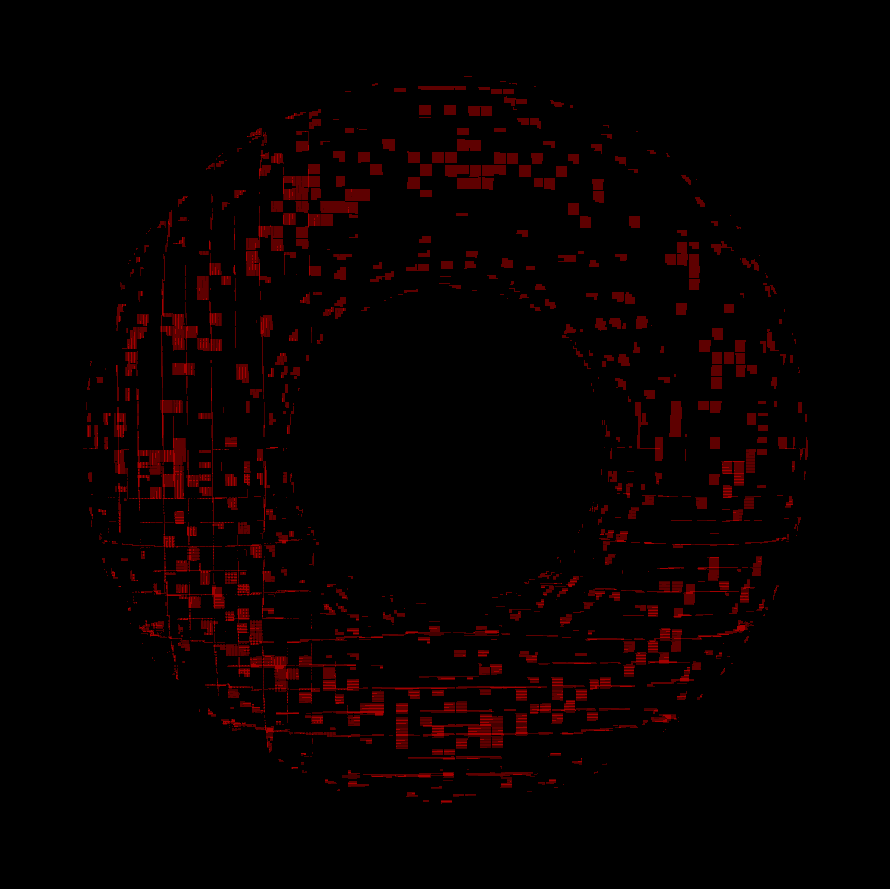
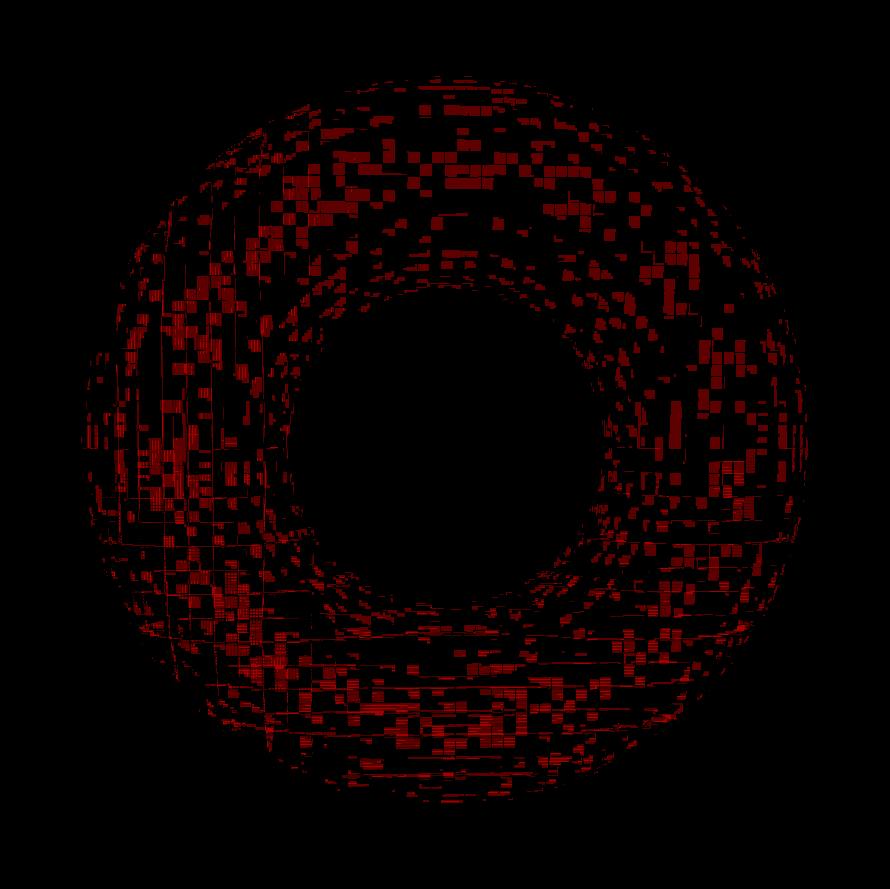
Added and updated overdraw viz

diff --git a/Thesis/chapters/06_Experiment.tex b/Thesis/chapters/06_Experiment.tex
@@ -518,7 +518,7 @@ copying the depth buffer and computing the mip maps.
 
 \subsubsection*{Overdraw}
 
-\begin{figure}[h]
+\begin{figure}[!htb]
   \centering
   \includegraphics[height=125px]{images/graphics/overdraw-lucy1-pooc.png}
   \includegraphics[height=125px]{images/graphics/overdraw-lucy1-pmoc.png}
@@ -734,7 +734,7 @@ best occluders was 5.1 times as high as the amount of best occluders in the \emp
 
 \subsubsection*{Overdraw} \label{subsubsec-overdraw-bunny}
 
-\begin{figure}[h]
+\begin{figure}[!htb]
   \centering
   \includegraphics[width=125px]{images/graphics/overdraw-bunny1-pooc.png}
   \includegraphics[width=125px]{images/graphics/overdraw-bunny1-pmoc.png}
@@ -742,6 +742,8 @@ best occluders was 5.1 times as high as the amount of best occluders in the \emp
   \caption{}
   \label{fig:bunny-overdraw}
 \end{figure}
+
+
 
 
 \subsection*{Torus}
@@ -928,6 +930,19 @@ using the per-meshlet occlusion culling configuration as shown in figure \ref{fi
   \label{fig:torus-gpu-results}
 \end{figure}
 
+\subsubsection*{Overdraw}
+
+\begin{figure}[!htb]
+  \centering
+  \includegraphics[height=125px]{images/graphics/overdraw-torus1-pooc.png}
+  \includegraphics[height=125px]{images/graphics/overdraw-torus1-pmoc.png}
+  \includegraphics[height=125px]{images/graphics/overdraw-torus1-diff.png}
+  \includegraphics[height=125px]{images/graphics/overdraw-torus2-pooc.png}
+  \includegraphics[height=125px]{images/graphics/overdraw-torus2-pmoc.png}
+  \includegraphics[height=125px]{images/graphics/overdraw-torus2-diff.png}
+  \caption{}
+  \label{fig:torus-overdraw}
+\end{figure}
 
 \clearpage
 
@@ -1124,6 +1139,19 @@ culling, while the depth prepass didn't change significantly.
   \label{fig:terrain-gpu-times}
 \end{figure}
 
+\subsubsection*{Overdraw}
+
+\begin{figure}[!htb]
+  \centering
+  \includegraphics[height=125px]{images/graphics/overdraw-hairball1-pooc.png}
+  \includegraphics[height=125px]{images/graphics/overdraw-hairball1-pmoc.png}
+  \includegraphics[height=125px]{images/graphics/overdraw-hairball1-diff.png}
+  \includegraphics[height=125px]{images/graphics/overdraw-hairball2-pooc.png}
+  \includegraphics[height=125px]{images/graphics/overdraw-hairball2-pmoc.png}
+  \includegraphics[height=125px]{images/graphics/overdraw-hairball2-diff.png}
+  \caption{}
+  \label{fig:hairball-overdraw}
+\end{figure}
 
 \clearpage
 
